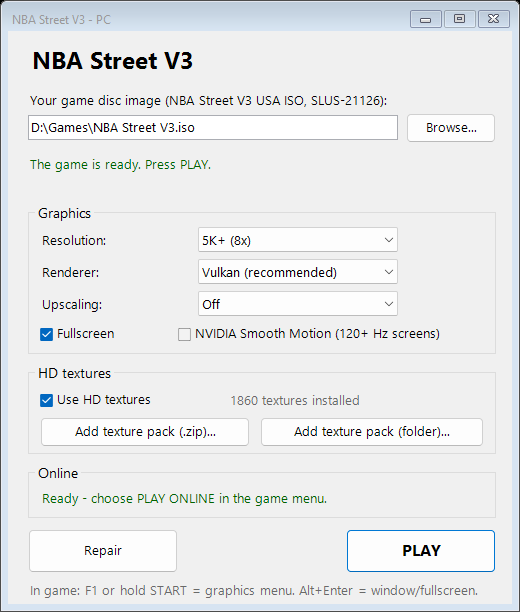
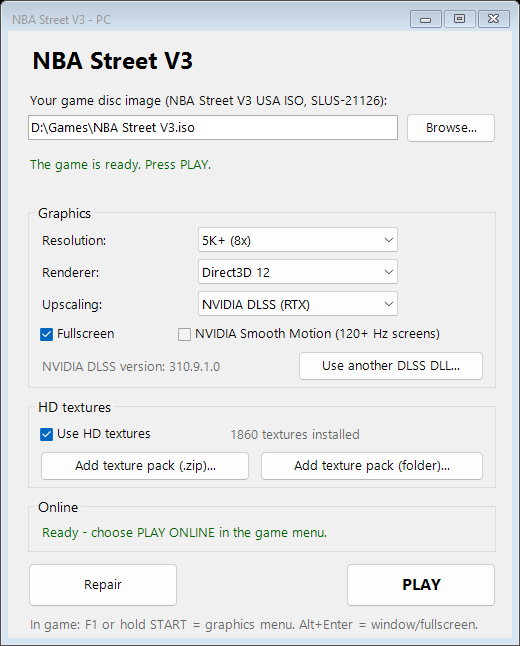
Launcher: shows the NVIDIA DLSS version and can use another official nvngx_dlss.dll
Like DLSS Swapper: "Use another DLSS DLL..." takes a nvngx_dlss.dll the player has (for example a
newer one from another game), checks it is NVIDIA's own (valid NVIDIA signature, DLSS product
name), keeps the previous one as nvngx_dlss.prev.dll and installs it in the renderer folder.
Modified or non-DLSS files are refused. README and the launcher screenshot updated.

diff --git a/README.md b/README.md
@@ -27,7 +27,7 @@ native code with [PS2Recomp](https://github.com/ran-j/PS2Recomp) and drawn on yo
   Windows: Vulkan, Direct3D 11/12 or OpenGL, with AMD FSR 1 or NVIDIA DLSS. Mac: Metal.
 - **NVIDIA DLSS done properly** (Vulkan and Direct3D 12): the game's real depth buffer plus motion
   vectors estimated on the GPU, so DLSS accumulates detail over frames; a mask keeps fast-moving
-  limbs sharp. On Direct3D 12 it is a standard DLSS integration that DLSS add-ons can hook.
+  limbs sharp. On Direct3D 12 it is a standard DLSS integration that DLSS add-ons can hook. The launcher shows the DLSS version and can switch to another official `nvngx_dlss.dll` (only NVIDIA-signed files are accepted).
 - **Faithful sound:** PCSX2's SPU2 (reverb, interpolation, volume sweeps) mixes the game's audio.
 - **HD textures** (fan pack, installed automatically on Windows).
 - **Online play** against a community server, no router setup needed.

diff --git a/README.es.md b/README.es.md
@@ -27,7 +27,7 @@ en el **navegador** (experimental): alta resolución, texturas HD, mando y **onl
 - **NVIDIA DLSS bien hecho** (Vulkan y Direct3D 12): la profundidad real del juego y vectores de
   movimiento calculados en la GPU, así DLSS acumula detalle entre fotogramas; una máscara mantiene
   nítidas las piernas en movimiento rápido. En Direct3D 12 es una integración DLSS estándar que los
-  add-ons de DLSS pueden enganchar.
+  add-ons de DLSS pueden enganchar. El launcher muestra la versión de DLSS y puede usar otro `nvngx_dlss.dll` oficial (solo acepta archivos firmados por NVIDIA).
 - **Sonido fiel:** el SPU2 de PCSX2 (reverb, interpolación, barridos de volumen) mezcla el audio.
 - **Texturas HD** (pack de fans, se instala solo en Windows).
 - **Online** contra un servidor de la comunidad, sin configurar el router.
